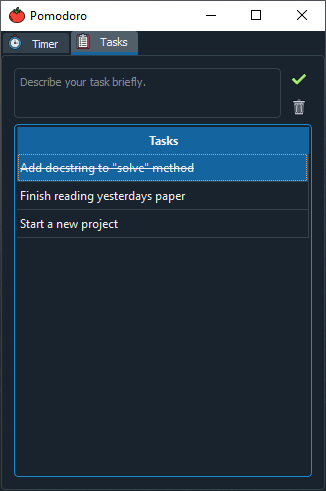
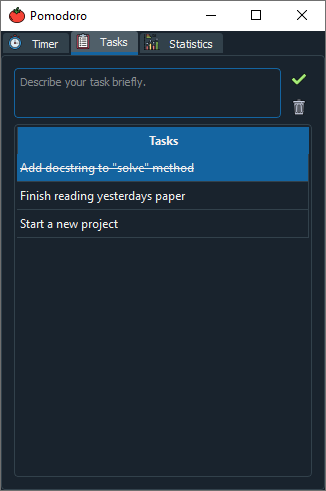
- Added statistics tab - State of Pomodoro is saved when closed, and restored upon opening it - Added more phrases

diff --git a/pomodoro.py b/pomodoro.py
@@ -16,23 +16,17 @@
 # You should have received a copy of the GNU General Public License
 # along with this program.  If not, see <https://www.gnu.org/licenses/>.
 
-
-
-from PyQt5.QtCore import QTime, QTimer, Qt
+from PyQt5.QtCore import QTime, QTimer, Qt, QSettings
 from PyQt5.QtWidgets import QSizePolicy, QWidget, QMainWindow, QVBoxLayout, QGroupBox, QHBoxLayout, QSpinBox, QLabel,\
                             QComboBox, QLCDNumber, QPushButton, QSystemTrayIcon, QMenu, QApplication, QTabWidget,\
-                                 QTextEdit, QToolButton, QTableWidget, QTableWidgetItem, QHeaderView, QAbstractItemView
+                                 QTextEdit, QToolButton, QTableWidget, QTableWidgetItem, QHeaderView, QAbstractItemView, QFormLayout
 from PyQt5.QtGui import QIcon
 from qdarkstyle import load_stylesheet
 
-
 from enum import Enum
 from random import choice
+from const import *
 
-APP_ID = 'brkmrt.pomodoro'
-work_finished_phrases = ["Its time to rest, but don't 😴...", "Take a rest and grab some 💧", "Rest a bit, you deserve it!🤓", "Okay...I Guess you can take a rest now...🙄"]
-rest_finished_phrases = ["Enough rest, go back to work 💻", "Get back to work. You've got this! 😤", "Its time to work. You can do it!🧠", "You got this, get back to work 📚"]
-pomodoro_finished_phrases = ["Good job, im proud of you!😊"]
 
 class Mode(Enum):
     work = 1,
@@ -48,12 +42,17 @@ class MainWindow(QMainWindow):
 
     def __init__(self):
         super(MainWindow, self).__init__()
+        settings = QSettings()
         self.setup_trayicon()
         self.setup_ui()
+        self.update_work_end_time()
+        self.update_rest_end_time()
         self.setup_connections()
+        self.timeFormat = "hh:mm:ss"
         self.time = QTime(0,0,0,0)
-        self.workEndTime = QTime(0,25,0,0)
-        self.restEndTime = QTime(0,5,0,0)
+        self.workTime = QTime(0,0,0,0)
+        self.restTime = QTime(0,0,0,0)
+        self.totalTime = QTime(0,0,0,0)
         self.currentMode = Mode.work
         self.maxRepetitions = -1
         self.currentRepetitions = 0
@@ -62,6 +61,23 @@ class MainWindow(QMainWindow):
     def leaveEvent(self, event):
         super(MainWindow, self).leaveEvent(event)
         self.tasksTableWidget.clearSelection()
+
+    def closeEvent(self, event):
+        super(MainWindow, self).closeEvent(event)
+        settings = QSettings()
+        settings.setValue("timer/work/hours",    self.workHoursSpinBox.value())
+        settings.setValue("timer/work/minutes",  self.workMinutesSpinBox.value())
+        settings.setValue("timer/work/seconds", self.workSecondsSpinBox.value())
+        settings.setValue("timer/rest/hours",    self.restHoursSpinBox.value())
+        settings.setValue("timer/rest/minutes",  self.restMinutesSpinBox.value())
+        settings.setValue("timer/rest/seconds", self.restSecondsSpinBox.value())
+
+        tasks = []
+        for i in range(self.tasksTableWidget.rowCount()):
+            item = self.tasksTableWidget.item(i,0)
+            if not item.font().strikeOut():
+                tasks.append(item.text())
+        settings.setValue("tasks/tasks", tasks)
 
 
     def reset_time(self):
@@ -117,6 +133,11 @@ class MainWindow(QMainWindow):
 
     def update_time(self):
         self.time = self.time.addSecs(1)
+        self.totalTime = self.totalTime.addSecs(1)
+        if self.modeComboBox.currentText() == "work":
+            self.workTime = self.workTime.addSecs(1)
+        else:
+            self.restTime = self.restTime.addSecs(1)
         self.display_time()
 
     def update_max_repetitions(self, value):
@@ -142,17 +163,20 @@ class MainWindow(QMainWindow):
 
     def increment_current_repetitions(self):
         if self.maxRepetitions > 0:
-            self.currentRepetitions +=1
-            
+            self.currentRepetitions +=1  
 
     def insert_task(self):
-        taskDescription = self.taskTextEdit.toPlainText()
-        if taskDescription:
-            rowCount = self.tasksTableWidget.rowCount()
-            self.tasksTableWidget.setRowCount(rowCount + 1)
-            self.tasksTableWidget.setItem(rowCount, 0, QTableWidgetItem(taskDescription))
-            self.tasksTableWidget.resizeRowsToContents()
-            self.taskTextEdit.clear()
+        task = self.taskTextEdit.toPlainText()
+        self.insert_tasks(task)
+    
+    def insert_tasks(self, *tasks):
+        for task in tasks:
+            if task:
+                rowCount = self.tasksTableWidget.rowCount()
+                self.tasksTableWidget.setRowCount(rowCount + 1)
+                self.tasksTableWidget.setItem(rowCount, 0, QTableWidgetItem(task))
+                self.tasksTableWidget.resizeRowsToContents()
+                self.taskTextEdit.clear()
 
     def delete_task(self):
         selectedIndexes = self.tasksTableWidget.selectedIndexes()
@@ -166,7 +190,11 @@ class MainWindow(QMainWindow):
         item.setFont(font)
    
     def display_time(self):
-        self.timeDisplay.display(self.time.toString("hh:mm:ss"))
+        self.timeDisplay.display(self.time.toString(self.timeFormat))
+        self.statisticsRestTimeDisplay.display(self.restTime.toString(self.timeFormat))
+        self.statisticsWorkTimeDisplay.display(self.workTime.toString(self.timeFormat))
+        self.statisticsTotalTimeDisplay.display(self.totalTime.toString(self.timeFormat))
+
 
     def show_window_message(self, status):
         if status is Status.workFinished:
@@ -212,6 +240,8 @@ class MainWindow(QMainWindow):
 
 
     def setup_ui(self):
+        settings = QSettings()
+
         self.size_policy = sizePolicy=QSizePolicy(QSizePolicy.Expanding, QSizePolicy.Expanding)
         #TABWIDGET
         self.tabWidget = QTabWidget()
@@ -224,9 +254,9 @@ class MainWindow(QMainWindow):
         self.workGroupBox = QGroupBox("Work")
         self.workGroupBoxLayout = QHBoxLayout(self.workGroupBox)
         self.workGroupBox.setLayout(self.workGroupBoxLayout)
-        self.workHoursSpinBox = QSpinBox(minimum=0, maximum=24, value=0, suffix="h", sizePolicy=self.size_policy)
-        self.workMinutesSpinBox = QSpinBox(minimum=0, maximum=60, value=25, suffix="m",sizePolicy=self.size_policy)
-        self.workSecondsSpinBox = QSpinBox(minimum=0, maximum=60, value=0, suffix="s",sizePolicy=self.size_policy)
+        self.workHoursSpinBox = QSpinBox(minimum=0, maximum=24, value=settings.value("timer/work/hours", 0), suffix="h", sizePolicy=self.size_policy)
+        self.workMinutesSpinBox = QSpinBox(minimum=0, maximum=60, value=settings.value("timer/work/minutes", 25), suffix="m",sizePolicy=self.size_policy)
+        self.workSecondsSpinBox = QSpinBox(minimum=0, maximum=60, value=settings.value("timer/work/seconds", 0), suffix="s",sizePolicy=self.size_policy)
         self.workGroupBoxLayout.addWidget(self.workHoursSpinBox)
         self.workGroupBoxLayout.addWidget(self.workMinutesSpinBox)
         self.workGroupBoxLayout.addWidget(self.workSecondsSpinBox)
@@ -234,9 +264,9 @@ class MainWindow(QMainWindow):
         self.restGroupBox = QGroupBox("Rest")
         self.restGroupBoxLayout = QHBoxLayout(self.restGroupBox)
         self.restGroupBox.setLayout(self.restGroupBoxLayout)
-        self.restHoursSpinBox = QSpinBox(minimum=0, maximum=24, value=0, suffix="h",sizePolicy=self.size_policy)
-        self.restMinutesSpinBox = QSpinBox(minimum=0, maximum=60, value=5, suffix="m",sizePolicy=self.size_policy)
-        self.restSecondsSpinBox = QSpinBox(minimum=0, maximum=60, value=0, suffix="s",sizePolicy=self.size_policy)
+        self.restHoursSpinBox = QSpinBox(minimum=0, maximum=24, value=settings.value("timer/rest/hours", 0), suffix="h",sizePolicy=self.size_policy)
+        self.restMinutesSpinBox = QSpinBox(minimum=0, maximum=60, value=settings.value("timer/rest/minutes", 5), suffix="m",sizePolicy=self.size_policy)
+        self.restSecondsSpinBox = QSpinBox(minimum=0, maximum=60, value=settings.value("timer/rest/seconds", 0), suffix="s",sizePolicy=self.size_policy)
         self.restGroupBoxLayout.addWidget(self.restHoursSpinBox)
         self.restGroupBoxLayout.addWidget(self.restMinutesSpinBox)
         self.restGroupBoxLayout.addWidget(self.restSecondsSpinBox)
@@ -308,12 +338,50 @@ class MainWindow(QMainWindow):
         self.tasksTableWidget.setTextElideMode(Qt.ElideNone)
         self.tasksTableWidget.setEditTriggers(QAbstractItemView.NoEditTriggers)
         self.tasksTableWidget.setSelectionMode(QAbstractItemView.SingleSelection)
+        self.insert_tasks(*settings.value("tasks/tasks", []))
+
 
         self.tasksWidgetLayout.addWidget(self.inputWidget)
         self.tasksWidgetLayout.addWidget(self.tasksTableWidget)
-        #ADD TASKS
+        #CREATE STATISTICS TAB
+        self.statisticsWidget = QWidget()
+        self.statisticsWidgetLayout = QVBoxLayout(self.statisticsWidget)
+        self.statisticsWidget.setLayout(self.statisticsWidgetLayout)
+
+        self.statisticsWorkTimeGroupBox = QGroupBox("Work Time")
+        self.statisticsWorkTimeGroupBoxLayout = QHBoxLayout()
+        self.statisticsWorkTimeGroupBox.setLayout(self.statisticsWorkTimeGroupBoxLayout)
+        self.statisticsWorkTimeDisplay  = QLCDNumber(8)
+        self.statisticsWorkTimeDisplay.display("00:00:00")
+        self.statisticsWorkTimeGroupBoxLayout.addWidget(self.statisticsWorkTimeDisplay)
+
+        self.statisticsRestTimeGroupBox = QGroupBox("Rest Time")
+        self.statisticsRestTimeGroupBoxLayout = QHBoxLayout()
+        self.statisticsRestTimeGroupBox.setLayout(self.statisticsRestTimeGroupBoxLayout)
+        self.statisticsRestTimeDisplay  = QLCDNumber(8)
+        self.statisticsRestTimeDisplay.display("00:00:00")
+        self.statisticsRestTimeGroupBoxLayout.addWidget(self.statisticsRestTimeDisplay)
+
+        self.statisticsTotalTimeGroupBox = QGroupBox("Total Time")
+        self.statisticsTotalTimeGroupBoxLayout = QHBoxLayout()
+        self.statisticsTotalTimeGroupBox.setLayout(self.statisticsTotalTimeGroupBoxLayout)
+        self.statisticsTotalTimeDisplay  = QLCDNumber(8)
+        self.statisticsTotalTimeDisplay.display("00:00:00")
+        self.statisticsTotalTimeGroupBoxLayout.addWidget(self.statisticsTotalTimeDisplay)
+       
+        self.statisticsWidgetLayout.addWidget(self.statisticsTotalTimeGroupBox)
+        self.statisticsWidgetLayout.addWidget(self.statisticsWorkTimeGroupBox)
+        self.statisticsWidgetLayout.addWidget(self.statisticsRestTimeGroupBox)
+
+
+        #ADD TABS
         self.timerTab = self.tabWidget.addTab(self.pomodoroWidget, QIcon("icons/timer.png"), "Timer")
         self.tasksTab = self.tabWidget.addTab(self.tasksWidget, QIcon("icons/tasks.png"), "Tasks")
+        self.statisticsTab = self.tabWidget.addTab(self.statisticsWidget, QIcon("icons/statistics.png"), "Statistics")
+
+
+
+
         self.setCentralWidget(self.tabWidget)
     
     def make_round_button(self, path, text, disabled=True):

diff --git a/const.py b/const.py
@@ -1,0 +1,29 @@
+APP_ID = 'brkmrt.pomodoro'
+work_finished_phrases = [   "Its time to rest, but don't 😴...", 
+                            "Take a rest and grab some 💧!", 
+                            "Rest a bit, you deserve it!🤓", 
+                            "Okay...I Guess you can take a rest now...🙄",
+                            "Stand up and stretch a bit!🧘",
+                            "Maybe grab a healthy snack?🍌🍇",
+                            "Get some fresh air!💨",
+                            "Listen to some relaxing music!🎵",
+                            "Watch some youtube videos and relax!📺",
+                            "Relax a bit and rest on your bed!🛏"
+                        ]
+
+rest_finished_phrases = [   "Enough rest, go back to work 💻", 
+                            "Get back to work. You've got this!😤", 
+                            "Its time to work. You can do it!🧠", 
+                            "You got this, get back to work!📚",
+                            "You can do it, just keep trying!💪",
+                            "You're almost there, don't give up now!😤",
+                            "You've got this, stay focused and keep working!🔥",
+                            "Time to continue!⏱",
+                            "That work ain't gonna finish it self, so continue!🤓",
+                            "I give you 5 seconds to start, or I will explode..💥"
+                        ]
+                        
+pomodoro_finished_phrases = [   "Good job, im proud of you!😊",
+                                "Well done! You deserve a good rest now!😊",
+                                "You got it! Now I can rest aswell..🤖"
+                            ]
